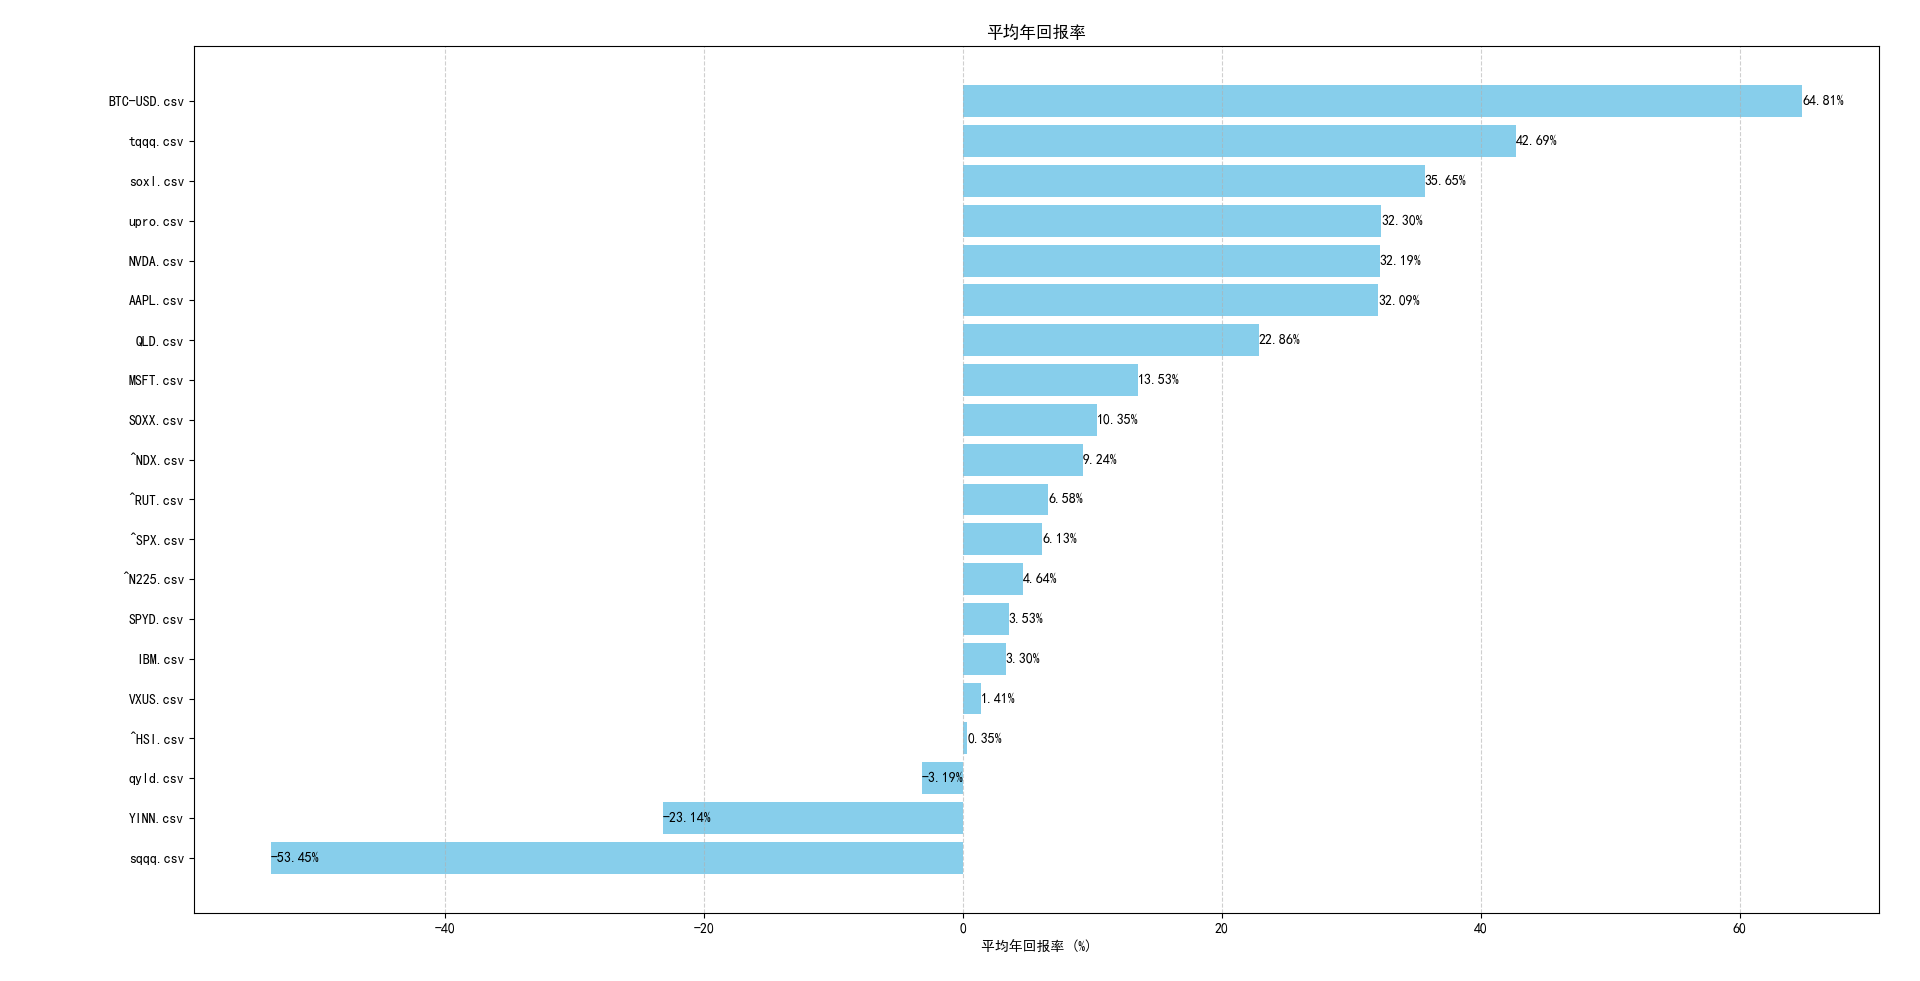
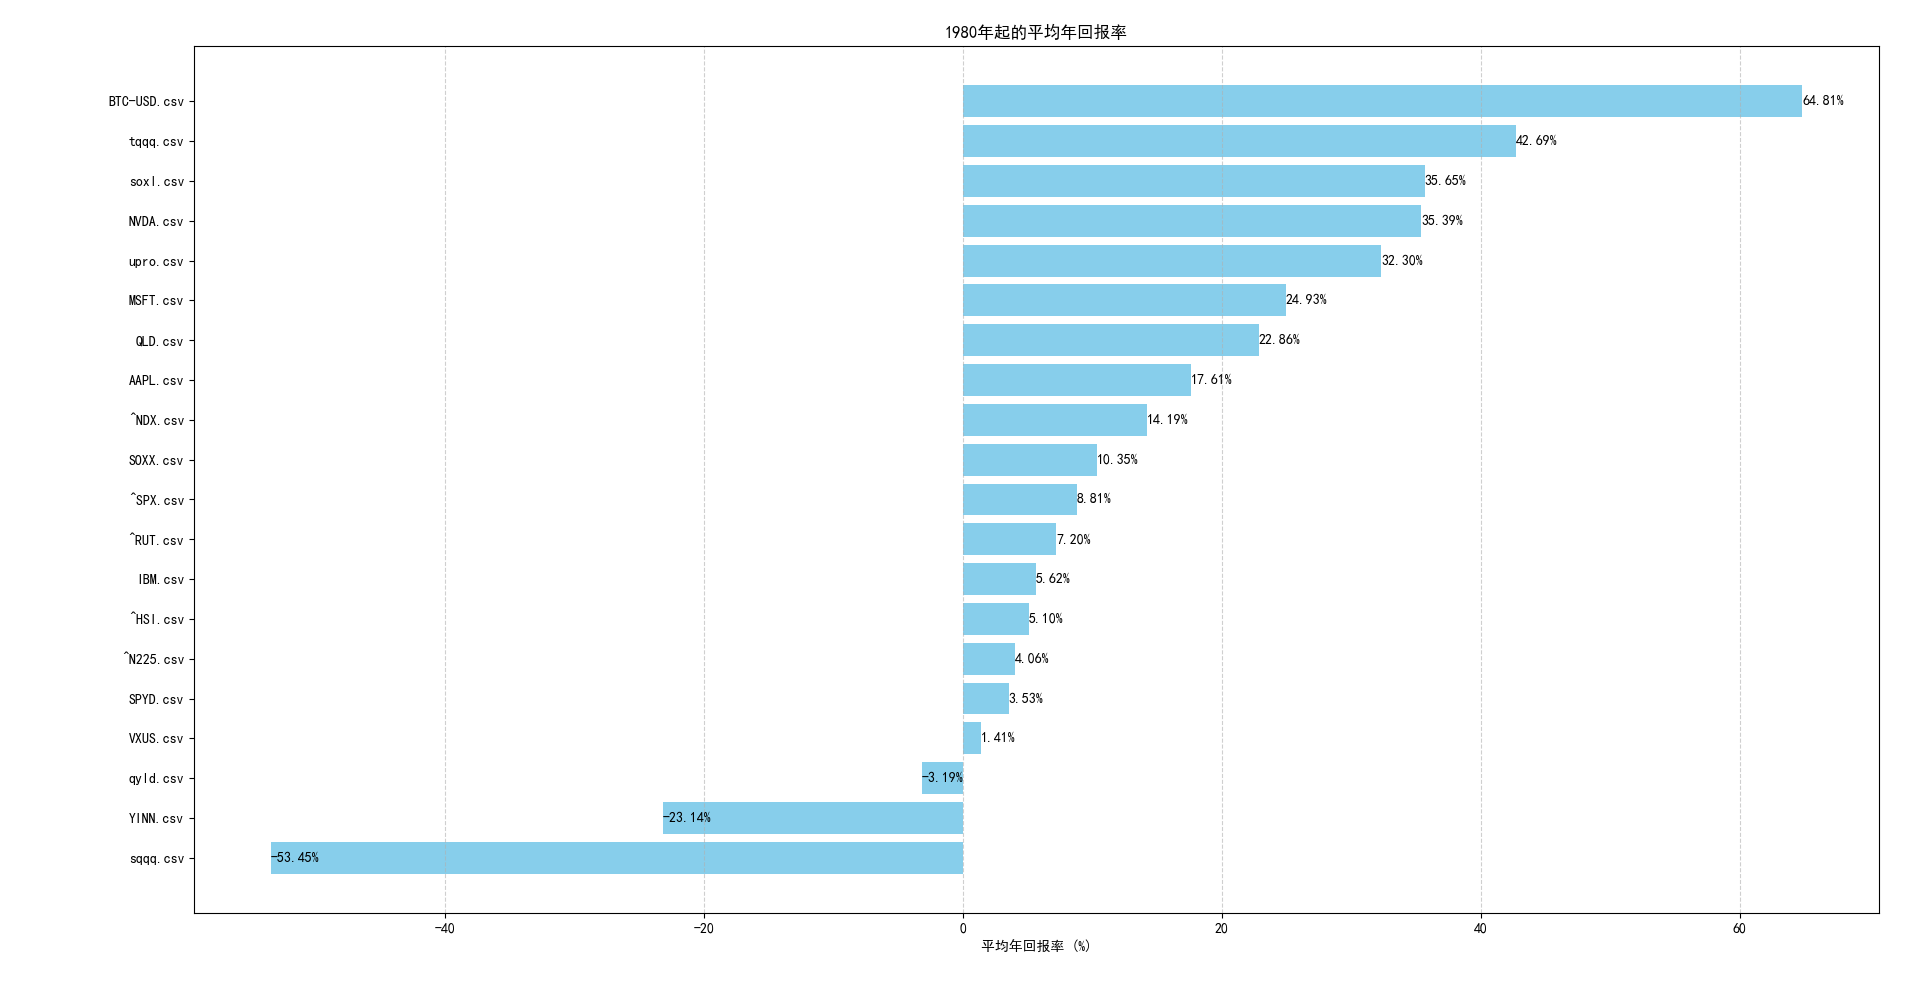
update

diff --git a/simple_py/CAGR.py b/simple_py/CAGR.py
@@ -1,13 +1,15 @@
 import pandas as pd
 import os
 
+begin_year = 2000
+
 def calculate_cagr(file_path):
     # 读取CSV文件
     data = pd.read_csv(file_path)
     # 将 'Date' 列转换为日期时间类型
     data['Date'] = pd.to_datetime(data['Date'])
 
-    data = data[data['Date'].dt.year > 2000]
+    data = data[data['Date'].dt.year > begin_year]
     # data = data[data['Date'].dt.year > 2009]
 
     # 过滤掉除了日期列以外所有值都为NaN或Null的行
@@ -16,12 +18,13 @@ def calculate_cagr(file_path):
     # 确保数据是按日期排序的
     data.sort_values('Date', inplace=True)
     # 计算投资期初和期末的价格
-    initial_price = data.iloc[0]['Open'] if not pd.isnull(data.iloc[0]['Open']) else data.iloc[0]['Close']
-    final_price = data.iloc[-1]['Open'] if not pd.isnull(data.iloc[-1]['Open']) else data.iloc[-1]['Close']
+    initial_price = data.iloc[0]['Open'] if not pd.isnull(data.iloc[0]['Open']) and data.iloc[0]['Open'] != 0  else data.iloc[0]['Close']
+    final_price = data.iloc[-1]['Open'] if not pd.isnull(data.iloc[-1]['Open']) and data.iloc[-1]['Open'] != 0 else data.iloc[-1]['Close']
     # 计算总的投资年数
     years = (data.iloc[-1]['Date'] - data.iloc[0]['Date']).days / 365.25
     # 计算CAGR
     CAGR = (final_price / initial_price) ** (1 / years) - 1
+
 
     start_date = data.iloc[0]['Date']
     end_date = data.iloc[-1]['Date']
@@ -57,7 +60,7 @@ def process_files(directory):
     plt.figure(figsize=(10, 8))
     plt.barh(files, [cagr * 100 for cagr in cagrs], color='skyblue')
     plt.xlabel('平均年回报率 (%)')
-    plt.title('平均年回报率')
+    plt.title(f"""{begin_year}年起的平均年回报率""")
 
     bars = plt.barh(files, [cagr * 100 for cagr in cagrs], color='skyblue')
     # 为每个条形图添加文本标签
